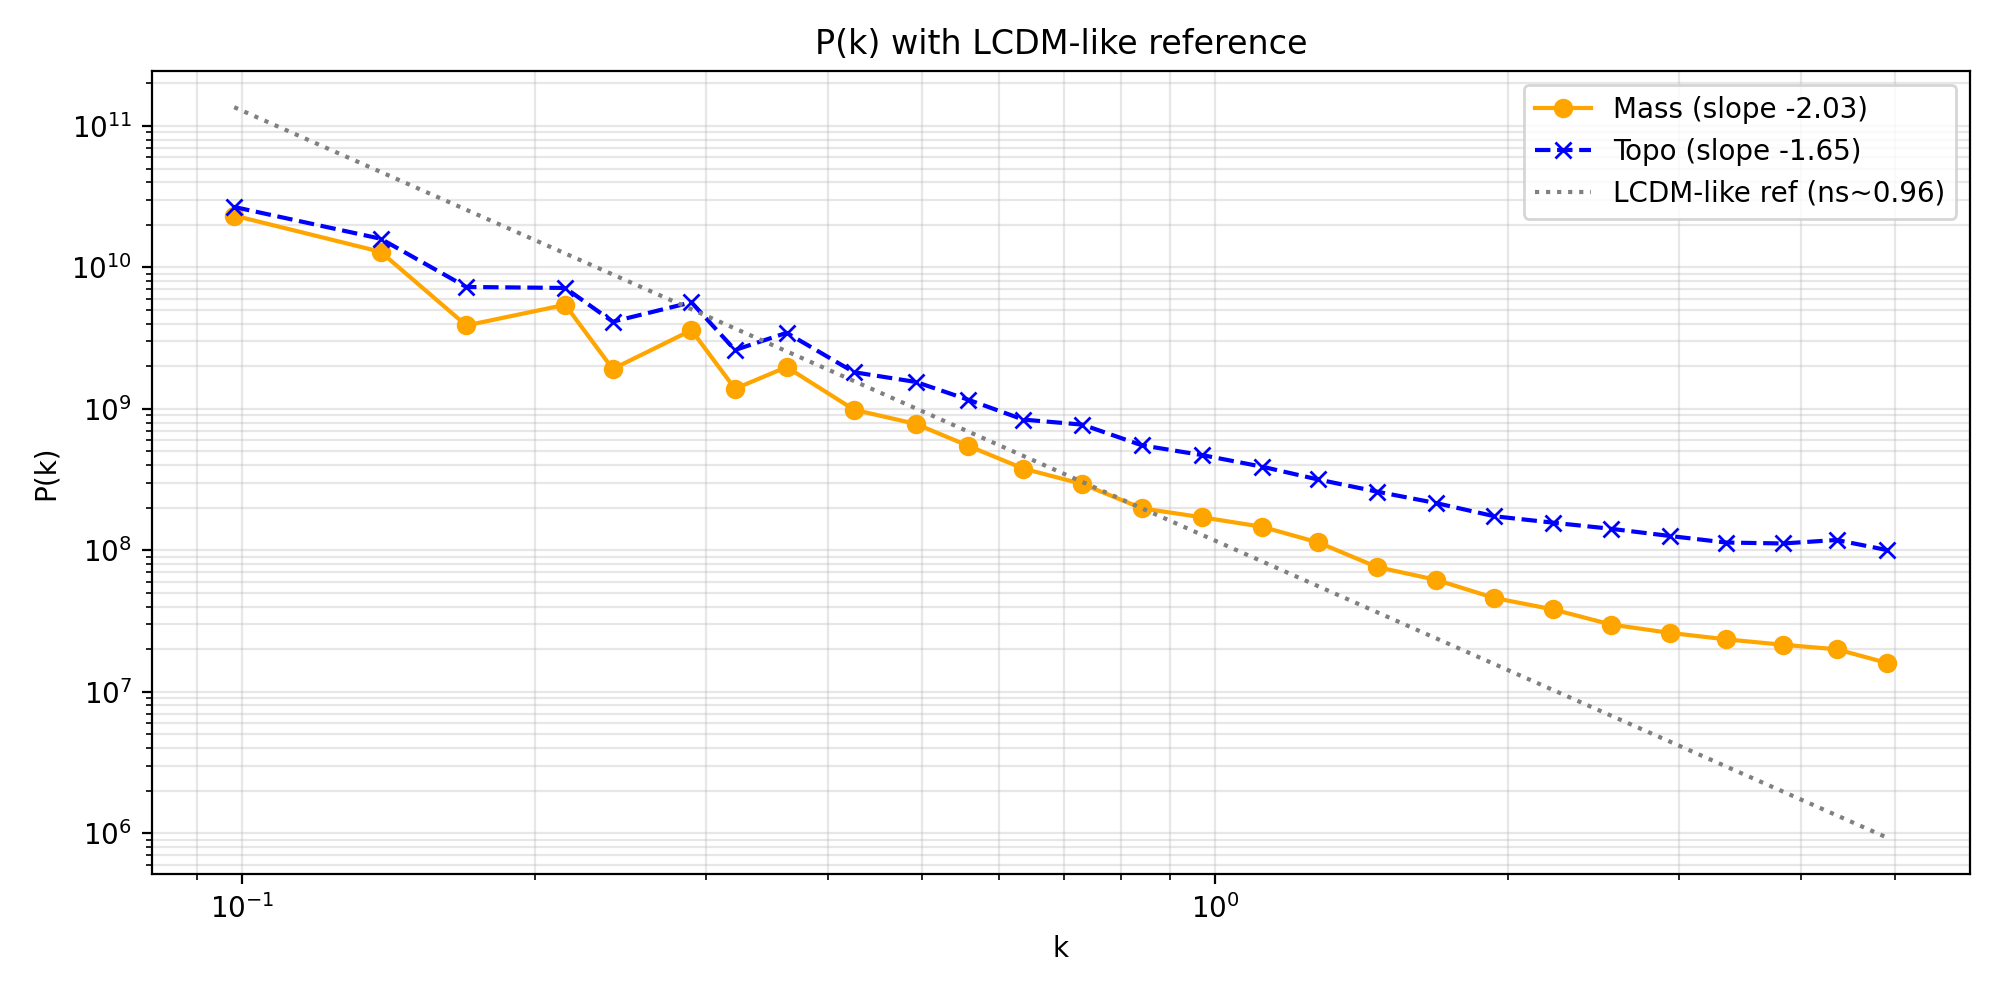
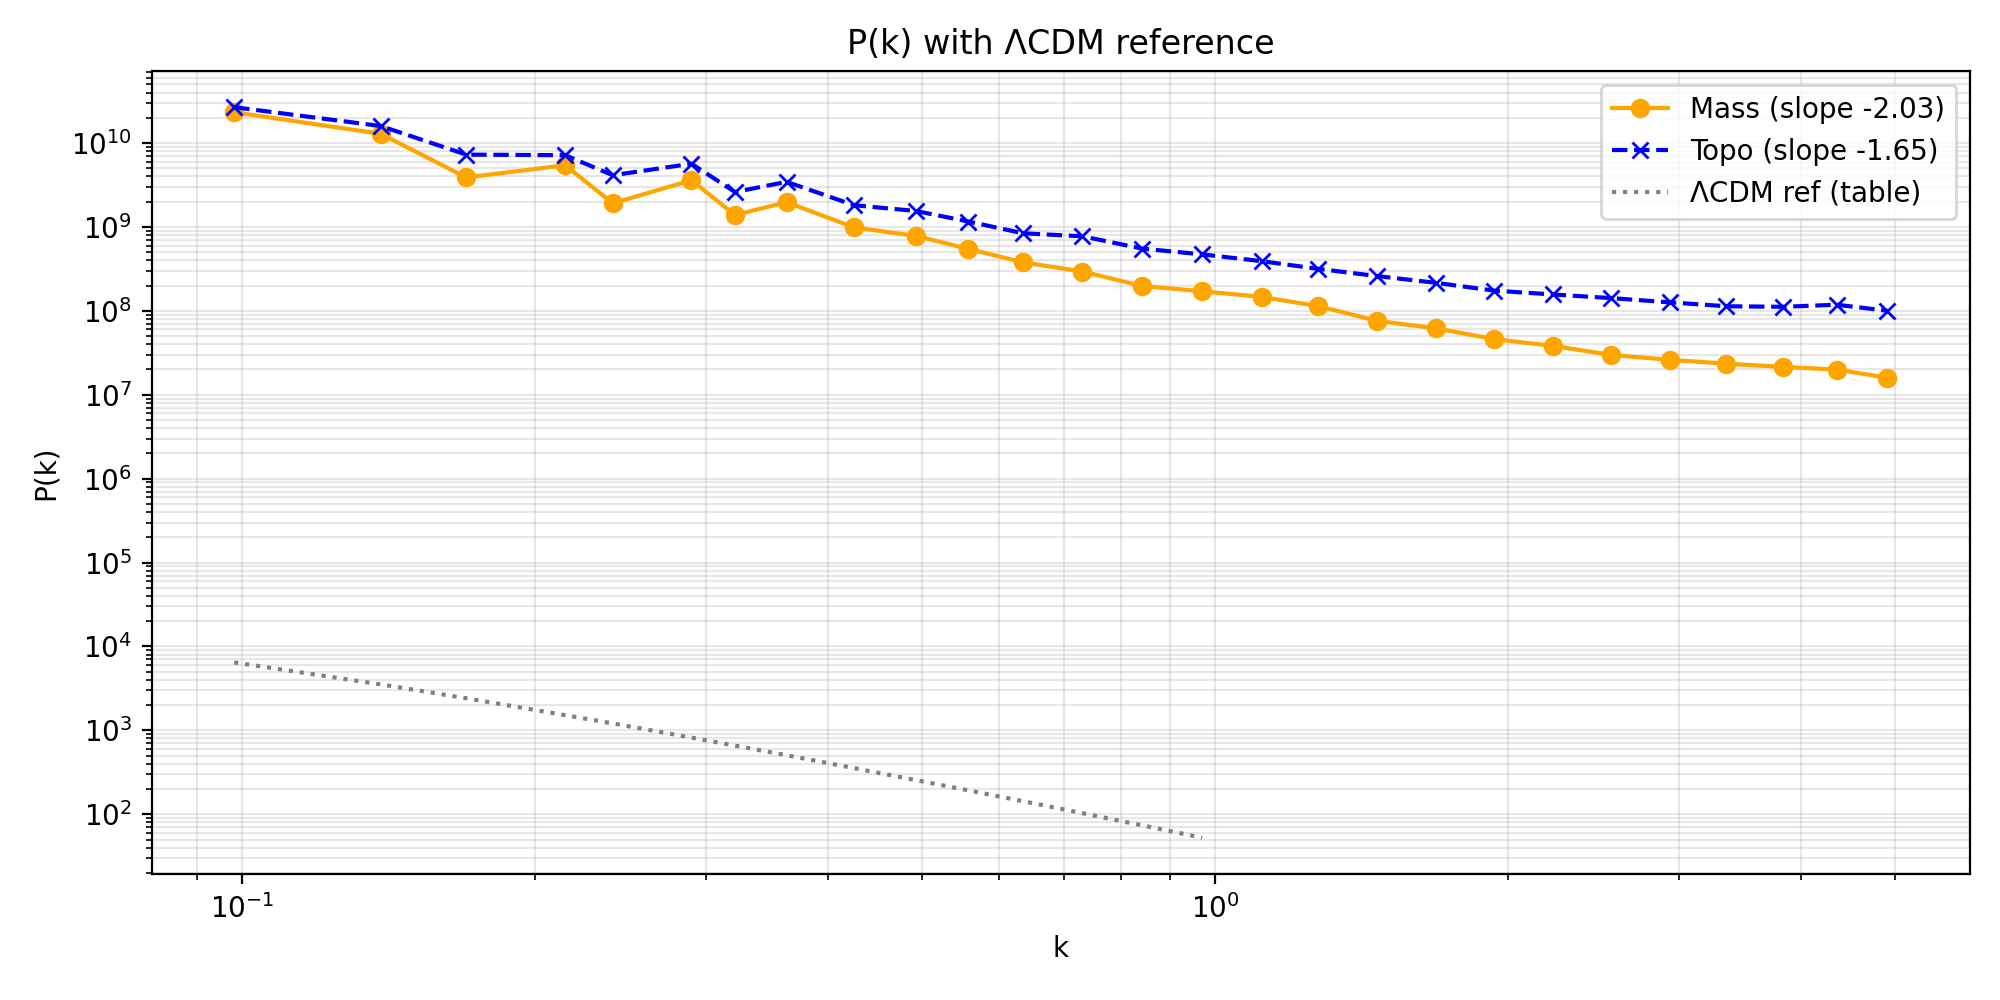
Update LCDM overlay using provided pk_lcdm.txt

diff --git a/python_project/scripts/power_spectrum_lcdm.py b/python_project/scripts/power_spectrum_lcdm.py
@@ -5,6 +5,7 @@ from pathlib import Path
 from sklearn.neighbors import kneighbors_graph
 
 DATA_PATH = Path(__file__).resolve().parent.parent / "data" / "sdss_100k_galaxy_form_burst.csv"
+LCDM_PATH = Path(__file__).resolve().parent.parent.parent / "pk_lcdm.txt"
 OUT_IMG = Path(__file__).resolve().parent.parent / "outputs" / "power_with_lcdm.png"
 
 
@@ -73,12 +74,6 @@ def fit_slope(k, p, kmin=0.05, kmax=0.3):
     return coef[0]
 
 
-def lcdm_reference(k, ns=0.96):
-    # Simple power-law reference P ~ k^{ns-4}; normalized to match mass spectrum at mid-k
-    slope = ns - 4  # ~ -3.04
-    return k ** slope
-
-
 def main():
     df = load_sdss_slice()
     coords = ra_dec_z_to_cartesian(df)
@@ -99,14 +94,19 @@ def main():
     k_mr, Pmr = compute_pk(rand_coords, w_m_r, grid=64)
     k_tr, Ptr = compute_pk(rand_coords, w_t_r, grid=64)
 
-    # match LCDM amplitude at median k of mass spectrum
-    k_ref = k_m
-    lcdm = lcdm_reference(k_ref)
-    # scale to match Pm at mid k
-    mid = len(k_ref) // 2
-    if lcdm[mid] != 0:
-        scale = Pm[mid] / lcdm[mid]
-        lcdm *= scale
+    # load LCDM table and interpolate to our k range
+    if LCDM_PATH.exists():
+        lcdm_tab = pd.read_csv(LCDM_PATH)
+        k_ref = lcdm_tab.iloc[:, 0].to_numpy()
+        P_ref = lcdm_tab.iloc[:, 1].to_numpy()
+        # interpolate on our k grid
+        P_lcdm = np.interp(k_m, k_ref, P_ref, left=np.nan, right=np.nan)
+        # drop nans
+        mvalid = ~np.isnan(P_lcdm)
+        k_lcdm = k_m[mvalid]
+        P_lcdm = P_lcdm[mvalid]
+    else:
+        k_lcdm = np.array([]); P_lcdm = np.array([])
 
     slope_m = fit_slope(k_m, Pm)
     slope_t = fit_slope(k_t, Pt)
@@ -118,14 +118,14 @@ def main():
     plt.figure(figsize=(10, 5))
     plt.loglog(k_m, Pm, 'o-', label=f'Mass (slope {slope_m:.2f})', color='orange')
     plt.loglog(k_t, Pt, 'x--', label=f'Topo (slope {slope_t:.2f})', color='blue')
-    plt.loglog(k_ref, lcdm, ':', label='LCDM-like ref (ns~0.96)', color='gray')
-    plt.xlabel('k'); plt.ylabel('P(k)'); plt.title('P(k) with LCDM-like reference')
+    if len(k_lcdm):
+        plt.loglog(k_lcdm, P_lcdm, ':', label='ΛCDM ref (table)', color='gray')
+    plt.xlabel('k'); plt.ylabel('P(k)'); plt.title('P(k) with ΛCDM reference')
     plt.legend(); plt.grid(True, which='both', alpha=0.3)
     plt.tight_layout(); plt.savefig(OUT_IMG, dpi=200)
     print(f"Saved {OUT_IMG}")
 
-    # save arrays for reuse
-    np.savez(OUT_IMG.with_suffix('.npz'), k_m=k_m, Pm=Pm, k_t=k_t, Pt=Pt, k_mr=k_mr, Pmr=Pmr, k_tr=k_tr, Ptr=Ptr, lcdm=k_ref)
+    np.savez(OUT_IMG.with_suffix('.npz'), k_m=k_m, Pm=Pm, k_t=k_t, Pt=Pt, k_mr=k_mr, Pmr=Pmr, k_tr=k_tr, Ptr=Ptr, k_lcdm=k_lcdm, P_lcdm=P_lcdm)
 
 if __name__ == "__main__":
     main()
